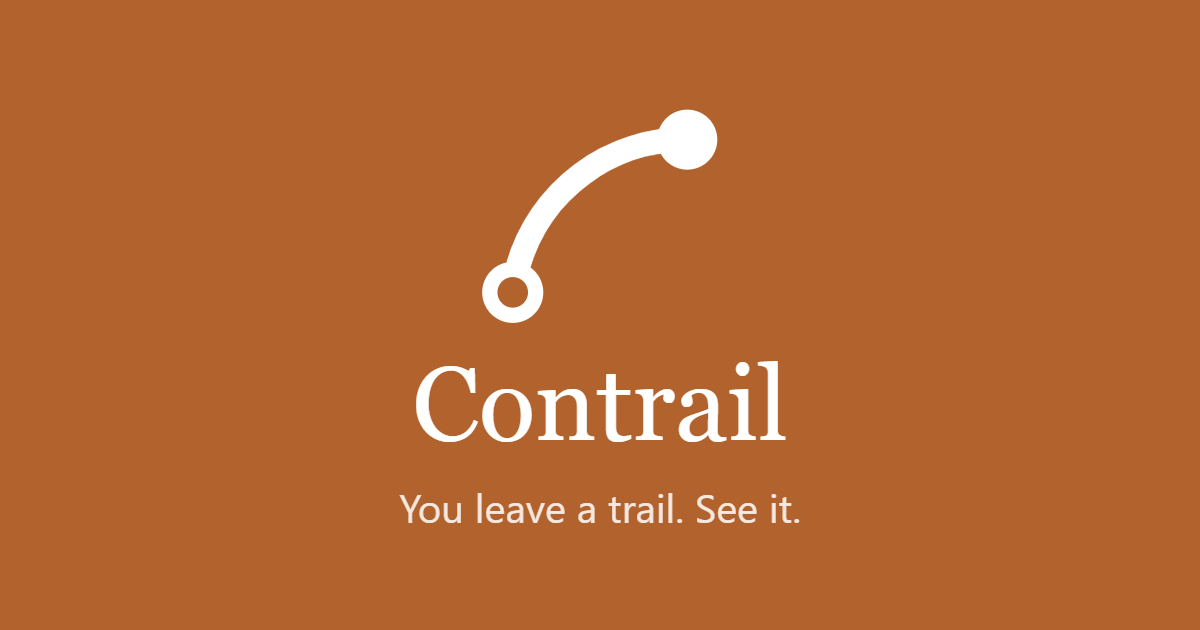
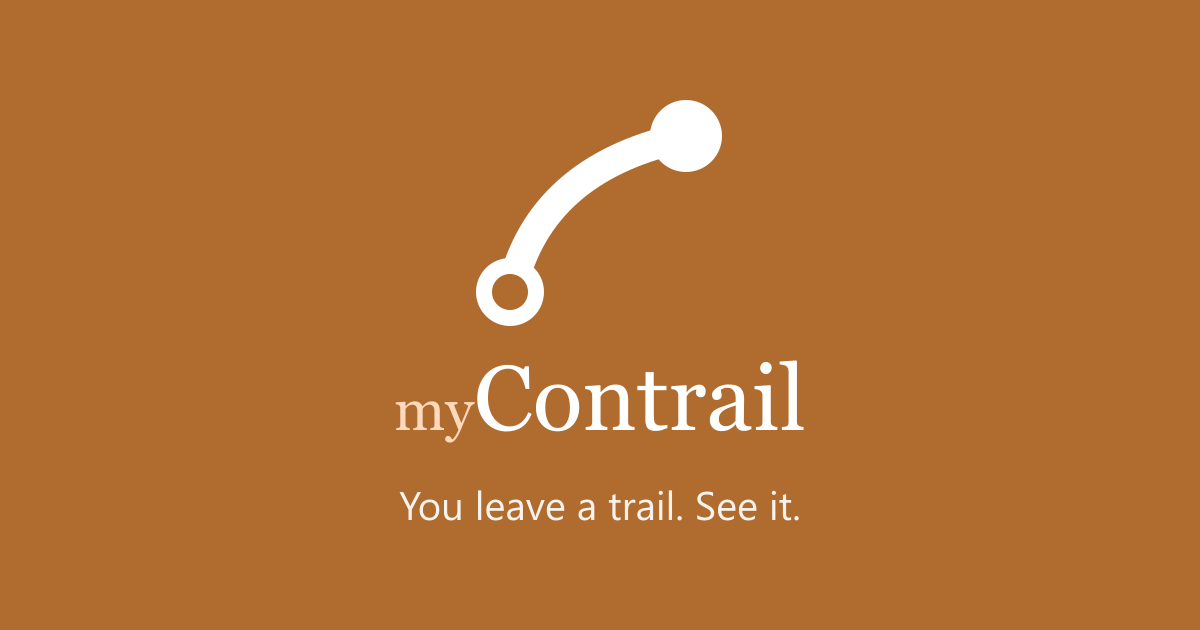
Fix launch-day feedback: visited-by-default, replay filter reset, panel cleanup, og-image rebrand
- Flight-created visits now always mark countries as visited; the
  arrive-then-depart transit heuristic mislabelled round-trip
  destinations (Varna-Barcelona-Varna marked Barcelona as transit).
  Demoting to transit stays a one-tap action.
- Replay resets filters and settings on start so filtered-out routes
  can't break the animation.
- Remove the Globe switch from the filters panel; the toggle lives in
  the map zoom stack now.
- Repaint og-image.png with the myContrail wordmark (the rebrand
  changed every text tag but the old Contrail wordmark was baked into
  the pixels); og-image.src.svg is the editable source.

diff --git a/backend/src/modules/flights/flights.service.ts b/backend/src/modules/flights/flights.service.ts
@@ -297,8 +297,14 @@ export class FlightsService {
   }
 
   /**
-   * Create visit records for countries visited in this flight
-   * Detects transit countries (consecutive legs in same country)
+   * Create visit records for countries visited in this flight — every one
+   * as a full visit ('trip'), never auto-transit.
+   *
+   * The old heuristic marked any arrive-then-depart country as transit,
+   * which mislabelled every round trip's DESTINATION (VAR→BCN→VAR reads as
+   * "passed through Spain"). Flying somewhere means you were there (user
+   * decision, 2026-08-13); anyone who genuinely only changed planes demotes
+   * the country to transit with one tap.
    */
   private async createVisitsFromLegs(
     userId: number,
@@ -307,61 +313,18 @@ export class FlightsService {
     journeyId: number,
     journeyDate?: string,
   ): Promise<void> {
-    // Detect transit countries: if we arrive and depart from same country in consecutive legs
-    const transitCountries = new Set<string>();
-    for (let i = 0; i < legs.length - 1; i++) {
-      const arrivalAirport = airportMap.get(legs[i].arrivalAirportId);
-      const nextDepartureAirport = airportMap.get(legs[i + 1].departureAirportId);
-
-      if (
-        arrivalAirport?.countryIso &&
-        nextDepartureAirport?.countryIso &&
-        arrivalAirport.countryIso === nextDepartureAirport.countryIso
-      ) {
-        transitCountries.add(arrivalAirport.countryIso);
-      }
-    }
-
     // Collect all countries from legs
     const countriesInFlight = new Map<string, VisitType>();
 
     for (const leg of legs) {
       const departureAirport = airportMap.get(leg.departureAirportId);
       const arrivalAirport = airportMap.get(leg.arrivalAirportId);
-
-      // Add departure country
       if (departureAirport?.countryIso) {
-        const iso = departureAirport.countryIso;
-        // If not already marked as trip, determine type
-        if (!countriesInFlight.has(iso) || countriesInFlight.get(iso) === 'transit') {
-          countriesInFlight.set(
-            iso,
-            transitCountries.has(iso) ? 'transit' : 'trip',
-          );
-        }
+        countriesInFlight.set(departureAirport.countryIso, 'trip');
       }
-
-      // Add arrival country
       if (arrivalAirport?.countryIso) {
-        const iso = arrivalAirport.countryIso;
-        if (!countriesInFlight.has(iso) || countriesInFlight.get(iso) === 'transit') {
-          countriesInFlight.set(
-            iso,
-            transitCountries.has(iso) ? 'transit' : 'trip',
-          );
-        }
+        countriesInFlight.set(arrivalAirport.countryIso, 'trip');
       }
-    }
-
-    // First and last airports are definitely trips, not transit
-    const firstAirport = airportMap.get(legs[0].departureAirportId);
-    const lastAirport = airportMap.get(legs[legs.length - 1].arrivalAirportId);
-
-    if (firstAirport?.countryIso) {
-      countriesInFlight.set(firstAirport.countryIso, 'trip');
-    }
-    if (lastAirport?.countryIso) {
-      countriesInFlight.set(lastAirport.countryIso, 'trip');
     }
 
     // Create visits for each country

diff --git a/frontend/src/components/TravelMap/MapControlPanel.tsx b/frontend/src/components/TravelMap/MapControlPanel.tsx
@@ -22,13 +22,6 @@ interface MapControlPanelProps {
    *  on small screens, where an expanded panel would otherwise cover them. */
   isOpen: boolean;
   onOpenChange: (open: boolean) => void;
-  /**
-   * Globe mode: the same map as an orthographic globe. Optional pair — the
-   * public read-only map renders this panel without the toggle by omitting
-   * the handler.
-   */
-  globeMode?: boolean;
-  onGlobeModeChange?: (on: boolean) => void;
 }
 
 // 44px minimum touch target; text-base stops iOS zooming the page on focus.
@@ -125,8 +118,6 @@ function MapControlPanel({
   years,
   isOpen,
   onOpenChange,
-  globeMode = false,
-  onGlobeModeChange,
 }: MapControlPanelProps) {
   const activeCount = countActiveFilters(filters);
 
@@ -223,36 +214,8 @@ function MapControlPanel({
               <MapViewSwitch settings={settings} onChange={onSettingsChange} />
             </div>
 
-            {/*
-              Globe mode. A view change like everything else in this panel:
-              it redraws the same data as an orthographic globe and touches
-              nothing. The whole row is the control, so the target is 44px
-              even though the visual switch is small.
-            */}
-            {onGlobeModeChange && (
-              <button
-                type="button"
-                role="switch"
-                aria-checked={globeMode}
-                onClick={() => onGlobeModeChange(!globeMode)}
-                className="w-full min-h-11 flex items-center justify-between gap-2 px-1 rounded-lg
-                  map-glass-hover focus:outline-none focus-visible:ring-2 focus-visible:ring-brand-400"
-              >
-                <span className="text-sm font-medium">Globe</span>
-                <span
-                  aria-hidden="true"
-                  className={`relative inline-block w-11 h-6 flex-shrink-0 rounded-full transition-colors ${
-                    globeMode ? 'bg-brand-600' : 'bg-current/25'
-                  }`}
-                >
-                  <span
-                    className={`absolute top-0.5 left-0.5 w-5 h-5 rounded-full bg-white shadow transition-transform ${
-                      globeMode ? 'translate-x-5' : ''
-                    }`}
-                  />
-                </span>
-              </button>
-            )}
+            {/* The globe toggle moved to the zoom stack (2026-08-13):
+                view modes live with map tools, not filters. */}
 
             {/*
               Home country moved to Settings. Everything left in this panel

diff --git a/frontend/src/components/TravelMap/TravelMap.tsx b/frontend/src/components/TravelMap/TravelMap.tsx
@@ -204,6 +204,24 @@ function TravelMap() {
   */
   const replay = useJourneyReplay(flights);
 
+  /*
+    The replay narrates EVERYTHING, so pressing Play clears whatever filters
+    or hidden layers are active (user decision, 2026-08-13): replaying with
+    routes filtered out animated a plane along paths that were not there.
+    Only the UI's start is wrapped — effects keep the raw replay object.
+  */
+  const replayForUi = useMemo(
+    () => ({
+      ...replay,
+      start: () => {
+        setFilters(DEFAULT_FILTERS);
+        setSettings(DEFAULT_SETTINGS);
+        replay.start();
+      },
+    }),
+    [replay],
+  );
+
   // The journey highlighted by clicking one of its routes.
   const [selectedJourney, setSelectedJourney] = useState<FlightJourney | null>(
     null
@@ -905,7 +923,7 @@ function TravelMap() {
         maxRouteCount={replay.isActive ? replayMaxRouteCount : maxRouteCount}
         airports={replay.isActive ? replayAirports : airports}
         airportVisitCounts={airportVisitCounts}
-        replay={replay}
+        replay={replayForUi}
         landedIsoCode={landedIsoCode}
         popAirport={popAirport}
         yearChip={yearChip}
@@ -1105,8 +1123,6 @@ function TravelMap() {
           years={filterOptions.years}
           isOpen={isControlPanelOpen}
           onOpenChange={setIsControlPanelOpen}
-          globeMode={globeMode}
-          onGlobeModeChange={handleGlobeModeChange}
         />
       </div>
       )}
@@ -1128,12 +1144,12 @@ function TravelMap() {
       */}
       {replay.isActive && (
         <div className="absolute z-30 top-3 left-3 right-3 md:right-auto md:w-[30rem]">
-          <ReplayControl replay={replay} />
+          <ReplayControl replay={replayForUi} />
         </div>
       )}
 
       <MapZoomControls
-        extraTool={!replay.isActive ? <ReplayControl replay={replay} compact /> : null}
+        extraTool={!replay.isActive ? <ReplayControl replay={replayForUi} compact /> : null}
         bottomTool={
           /* The mode toggle lives with the map tools, not the filters (the
              settings-gear lesson), in the bottom-anchored slot that never

diff --git a/frontend/src/components/TravelMap/GlobeView.tsx b/frontend/src/components/TravelMap/GlobeView.tsx
@@ -709,8 +709,7 @@ function GlobeView({
             years={filterYears}
             isOpen={isControlPanelOpen}
             onOpenChange={onControlPanelOpenChange}
-            globeMode
-            onGlobeModeChange={onGlobeModeChange}
+
           />
         </div>
       )}
